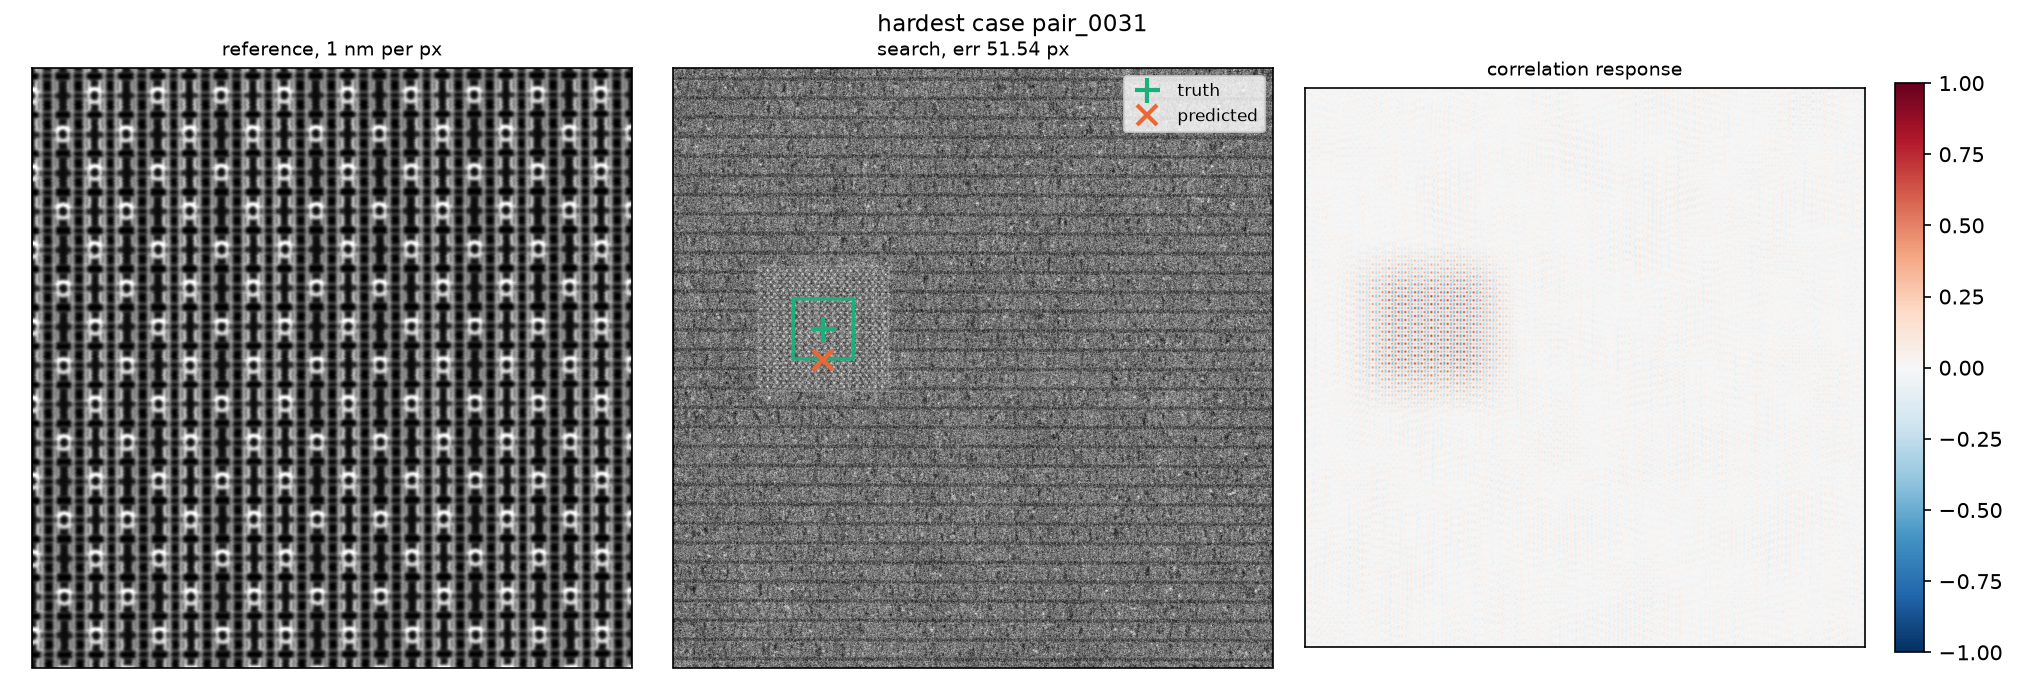
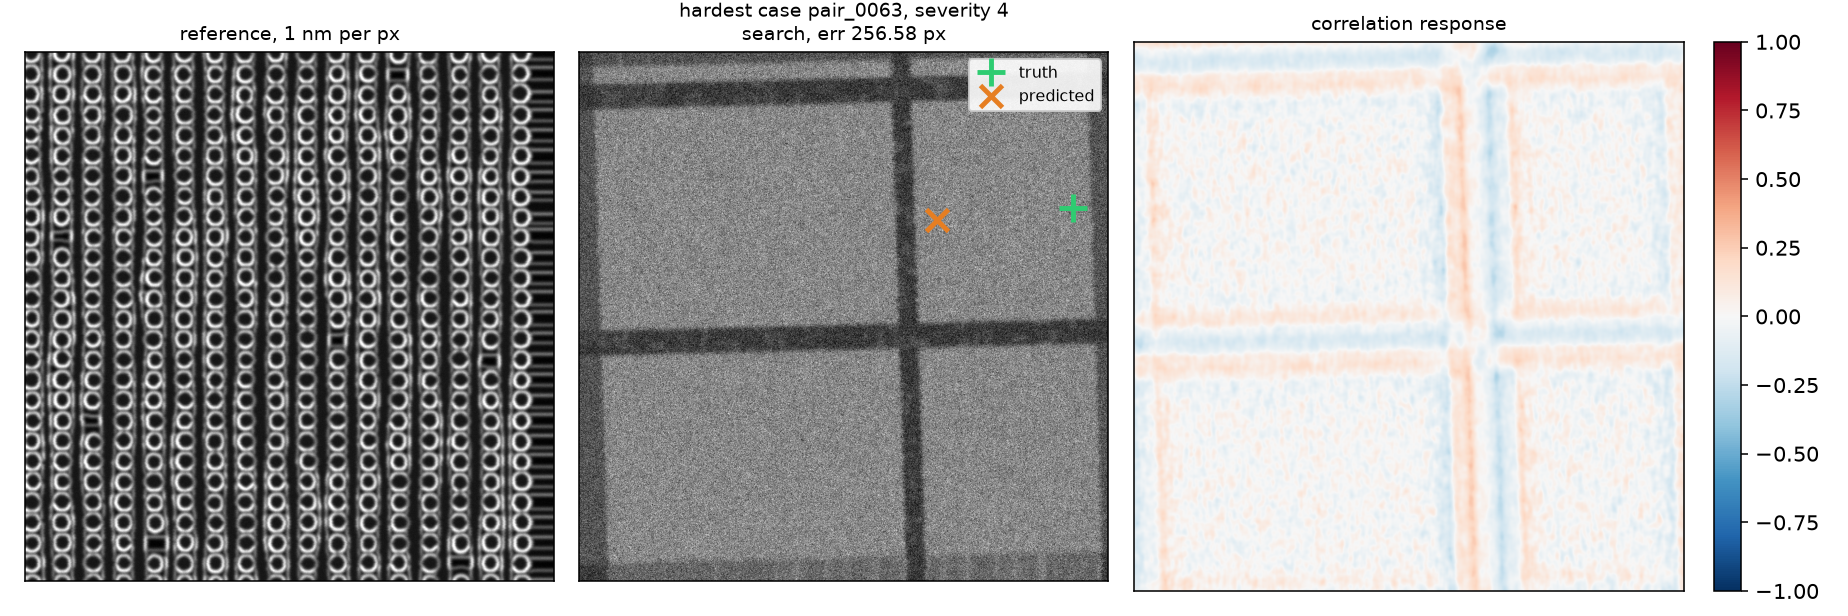
Redraw the success and honest failure showcases from the current build on named held out pairs, a severity 4 DRAM pair localized to 0.22 px and reported found at probability 0.983 beside a severity 4 information limited window whose wrong periodic instance sits 257 px out and whose shipped answer is

diff --git a/scripts/make_readme_figures.py b/scripts/make_readme_figures.py
@@ -187,10 +187,49 @@ def precision_recall_by_tier():
     print("wrote precision_recall.png")
 
 
+def phase2_montages():
+    """The success and honest failure showcases, rendered from the current
+    build on named holdout pairs: reference, search with truth and
+    prediction, and the correlation response the decision read."""
+    import csv
+    import sys
+    sys.path.insert(0, str(REPO / "src"))
+    from drift_sense.localize import MatchConfig, load_gray, locate
+
+    gt = {r["pair_id"]: r for r in csv.DictReader(open(REPO / "data/p2holdout2/ground_truth.csv"))}
+    for name, pid, kind in (("montage_success.png", "pair_0009", "success case"),
+                            ("montage_failure.png", "pair_0063", "hardest case")):
+        g = gt[pid]
+        ref, _ = load_gray(REPO / "data/p2holdout2" / g["reference_path"])
+        search, _ = load_gray(REPO / "data/p2holdout2" / g["search_path"])
+        x, y, diag, resp = locate(ref, search, MatchConfig(), return_artifacts=True)
+        tx, ty = float(g["gt_x"]), float(g["gt_y"])
+        err = float(np.hypot(x - tx, y - ty))
+        fig, axes = plt.subplots(1, 3, figsize=(13.2, 4.4),
+                                 gridspec_kw={"width_ratios": [1, 1, 1.15]})
+        axes[0].imshow(ref, cmap="gray")
+        axes[0].set_title("reference, 1 nm per px", fontsize=10)
+        axes[1].imshow(search, cmap="gray")
+        axes[1].plot(tx, ty, "+", color="#2ecc71", ms=14, mew=2.5, label="truth")
+        axes[1].plot(x, y, "x", color="#e67e22", ms=11, mew=2.5, label="predicted")
+        axes[1].legend(loc="upper right", fontsize=8, framealpha=0.9)
+        axes[1].set_title(f"{kind} {pid}, severity {g['severity']}\n"
+                          f"search, err {err:.2f} px", fontsize=10)
+        r = diag["artifacts"]["resp"]
+        im = axes[2].imshow(r, cmap="RdBu_r", vmin=-1, vmax=1)
+        axes[2].set_title("correlation response", fontsize=10)
+        fig.colorbar(im, ax=axes[2], fraction=0.046)
+        for ax in axes:
+            ax.set_xticks([]); ax.set_yticks([])
+        fig.tight_layout()
+        fig.savefig(OUT / name, dpi=140)
+        plt.close(fig)
+        print(f"wrote {name}: {pid} severity {g['severity']} err {err:.2f} px, "
+              f"found evidence peak {diag['score']:.3f}, stage2 used {bool((diag.get('stage2') or {}).get('used'))}")
+
+
 def copy_experiment_figures():
     wanted = {
-        "montage_success.png": latest("experiments/*_final_physics/plots") ,
-        "montage_failure.png": latest("experiments/*_final_physics/plots"),
         "runtime_by_backend.png": latest("experiments/*_backend_port/plots"),
     }
     for name, folder in wanted.items():
@@ -205,4 +244,5 @@ if __name__ == "__main__":
     confidence_regimes()
     pose_robustness()
     precision_recall_by_tier()
+    phase2_montages()
     copy_experiment_figures()

diff --git a/README.md b/README.md
@@ -635,11 +635,11 @@ The domains that score lowest are the ones deliberately built to be hardest. Acc
 
 ![Success case](docs/images/montage_success.png)
 
-A FinFET site with a diffusion break inside the window. One correlation peak dominates, the prediction lands 0.02 px from truth, and the answer is labelled `unique_peak`.
+A severity 4 DRAM pair from the held out suite, the hardest rung of the degradation ladder, rendered from the current build: one intersection dominates the correlation response and the prediction lands 0.22 px from truth, reported found=1 at presence probability 0.983.
 
 ![Failure case](docs/images/montage_failure.png)
 
-A window deep inside a defect free DRAM mat, where every cell is a near copy of its neighbours. The correlation response is a lattice of near equal peaks rather than one, and the prediction lands on a wrong periodic instance, 51.54 px away. Three independent tests show this is information limited rather than a search failure: raising the candidate budget from 6 to 24 changed no answer on any of the 150 pairs, the failing cases recover the correct scale and rotation, and supplying the true pose from the generator metadata does not resolve them. The localizer reports `tie_break_convention` here rather than claiming certainty.
+A severity 4 window deep inside a degraded mat where every cell is a near copy of its neighbours: the correlation response is near flat and the best site the search can offer is a wrong periodic instance 257 px away. The oracle experiments established this class as information limited, the true site loses the correlation on two thirds of such pairs even with the true pose supplied, under four independent statistics (`experiments/20260902_sev4_oracle_revisited`). The shipped answer is the honest one: the presence decision rejects the pair at probability 0.203, so the wrong centre never reaches the output, a low scored found=0 instead of a confident miss.
 
 ### Confidence is calibrated, not asserted
 
